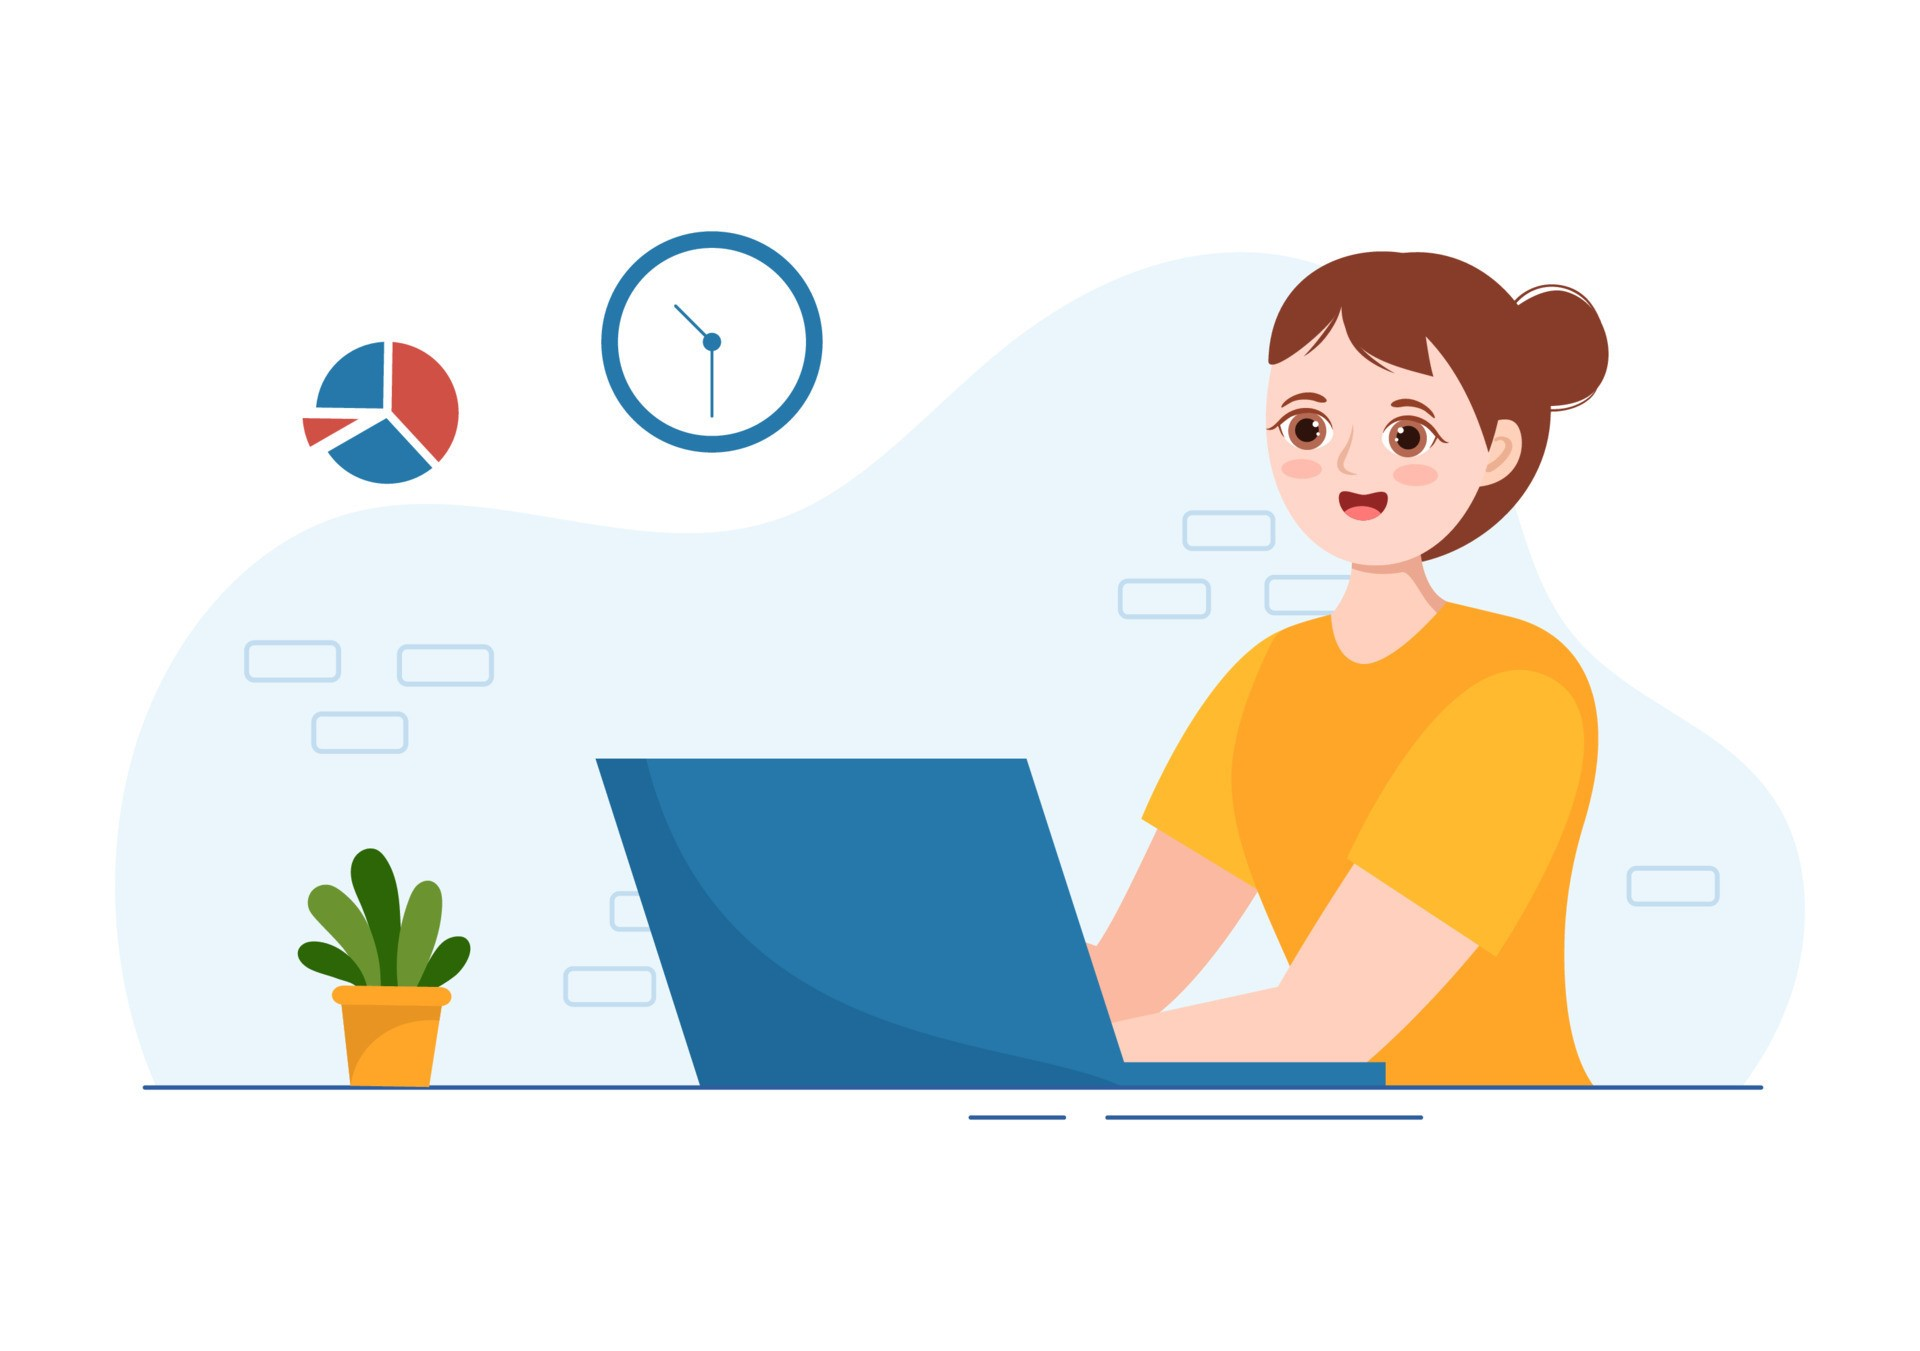
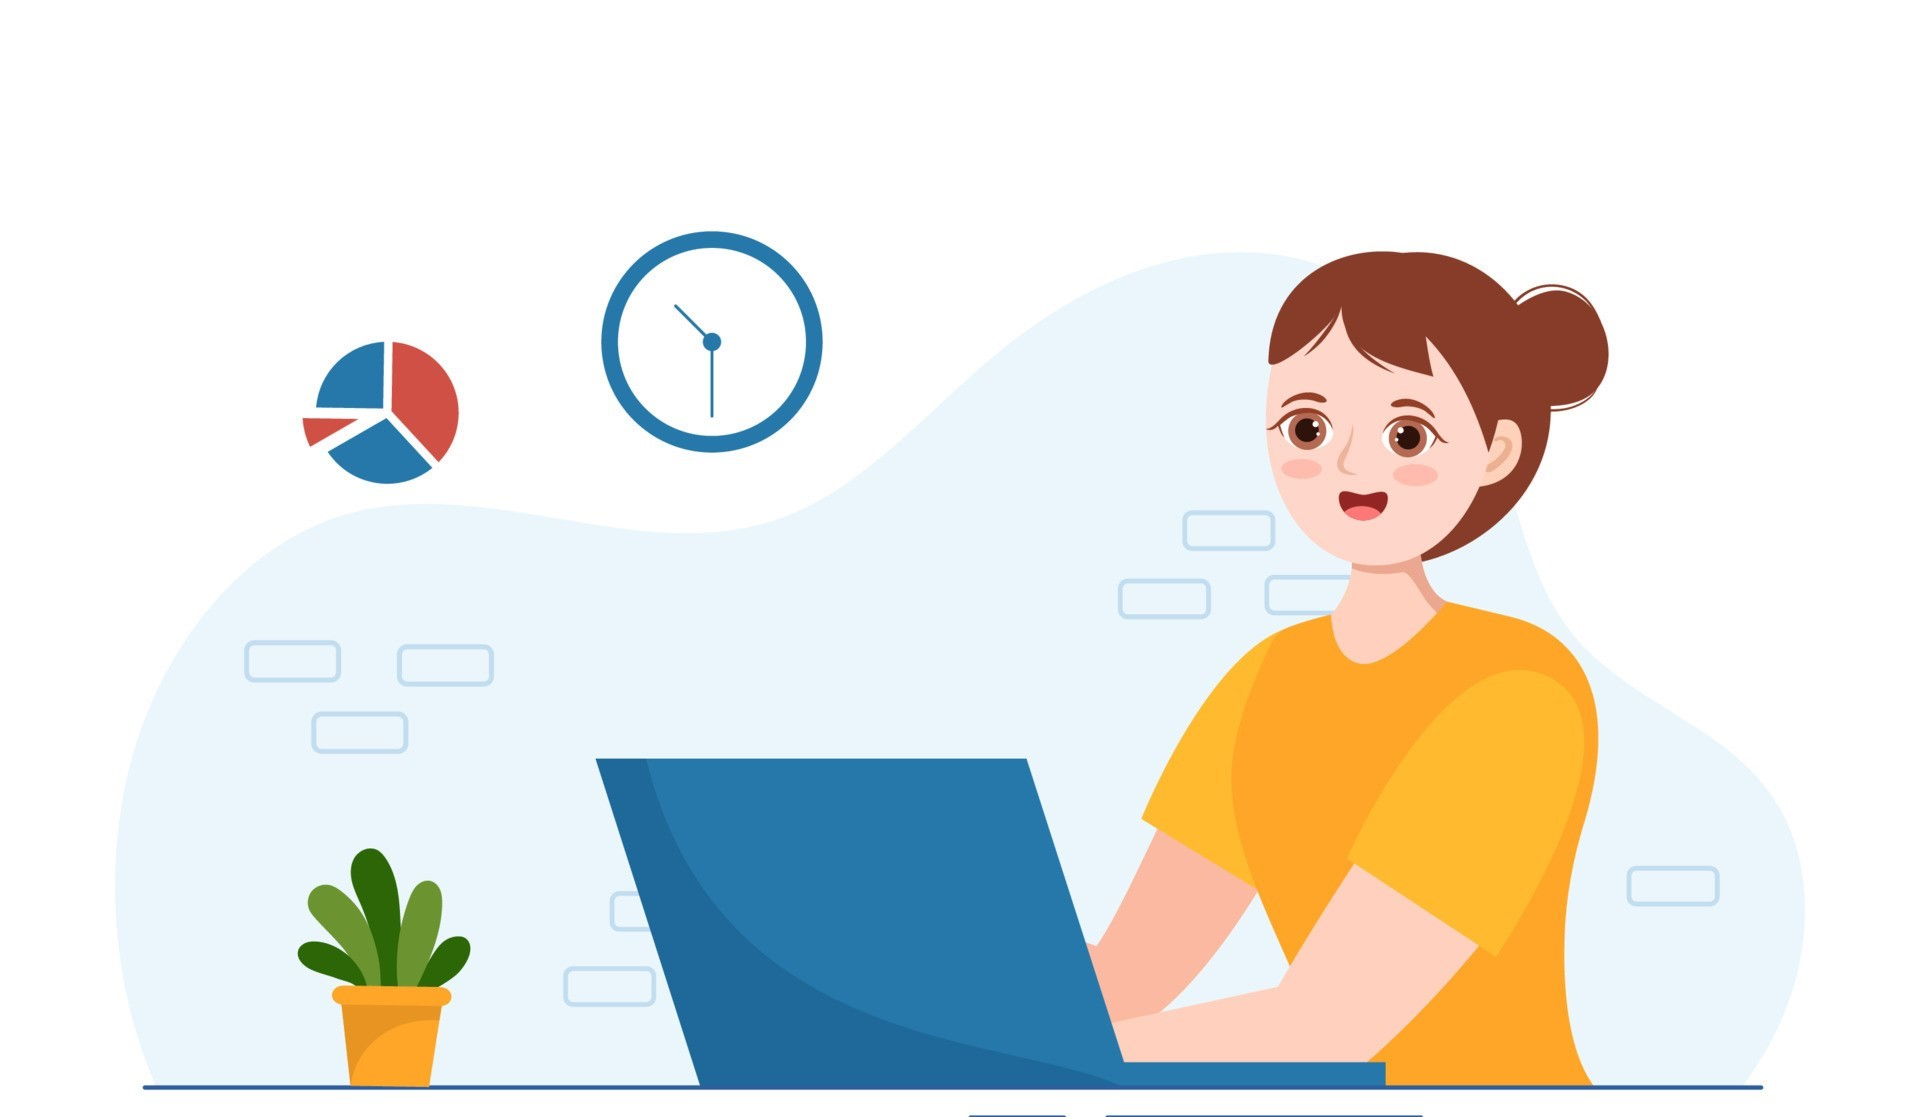
update div responsive

diff --git a/src/app/app.component.html b/src/app/app.component.html
@@ -1,21 +1,21 @@
 
 
 <div class="main-content" id="main-content">
+  <nav class="circle-menu">
+    <label for="toggle" class="fa fa-bars"></label> 
+    <input type="checkbox" id="toggle"/>
   
+    <menu>
+      <a href="#"><li class="fa fa-home"></li></a>
+      <a href="#"><li class="fa fa-user"></li></a>
+      <a href="#"><li class="fa fa-file"></li></a>
+      <a href="#"><li class="fa fa-phone"></li></a>
+    </menu>
+  </nav>
   <section class="imgs">
-    <div class="row">
-    <div class="col-5">
-    <nav class="circle-menu">
-      <label for="toggle" class="fa fa-bars"></label> 
-      <input type="checkbox" id="toggle"/>
-    
-      <menu>
-        <a href="#"><li class="fa fa-home"></li></a>
-        <a href="#"><li class="fa fa-user"></li></a>
-        <a href="#"><li class="fa fa-file"></li></a>
-        <a href="#"><li class="fa fa-phone"></li></a>
-      </menu>
-    </nav>
+    <!-- <div class="row"> -->
+    <!-- <div class="col-5"> -->
+  
     <div class="intro">
       <h1>Hey! My name is Tanushree Gangwal. I am a Full Stack Developer</h1>
       <p>I have been working as a full stack developer since 2021, seamlessly blending my problem-solving skills with my passion for coding. My journey into website development began in college, where I discovered the perfect intersection of design and functionality. While I'm not primarily a designer, I excel at bringing pre-designed concepts to life through clean, efficient code. This dual expertise allows me to ensure that every project is executed flawlessly from concept to completion.</p>
@@ -32,11 +32,11 @@
       </div>
     </div> -->
     
-</div>
-<div class="col-7">
+<!-- </div> -->
+<!-- <div class="col-7"> -->
   <img src="../assets/images/women.jpg" class="vimg"/>
-</div>
-</div>
+<!-- </div> -->
+<!-- </div> -->
   </section>
 
   <div>

diff --git a/src/app/app.component.scss b/src/app/app.component.scss
@@ -10,14 +10,14 @@
     right: 0
 }
 .imgs{
-    width: 100%;
-    height: 100vh;
-    // background: url(../assets/images/back.jpg) top right no-repeat;
-    background-size: cover;
-    // position: relative;
+  width: 100%;
+  height: auto;
+  display: inline-flex;
 }
 .vimg{
-  width: 100%;
+  width: 60%;
+  // position:absolute;
+  // bottom: 0;
 }
 .content {
     position: absolute;
@@ -243,8 +243,10 @@
   }
   .intro{
     text-align: center;
-    margin-top: 15%;
+    top: 20%;
+    position: relative;
     padding: 50px;
+    width: 40%;
   }
   
   

diff --git a/src/app/about/about.component.html b/src/app/about/about.component.html
@@ -60,5 +60,4 @@
             </ul>
         </div>
     </div>
-<p>I have been working as a freelance designer and front-end developer since 2007. I’ve always been someone who has both a creative and a logical side. When I discovered web design in college, I realized it would be the perfect fit. I could use my creative side to design and my logical side to code. As a bonus, being both designer and developer allows me to make sure no detail is lost in translation.</p>
 </section>
